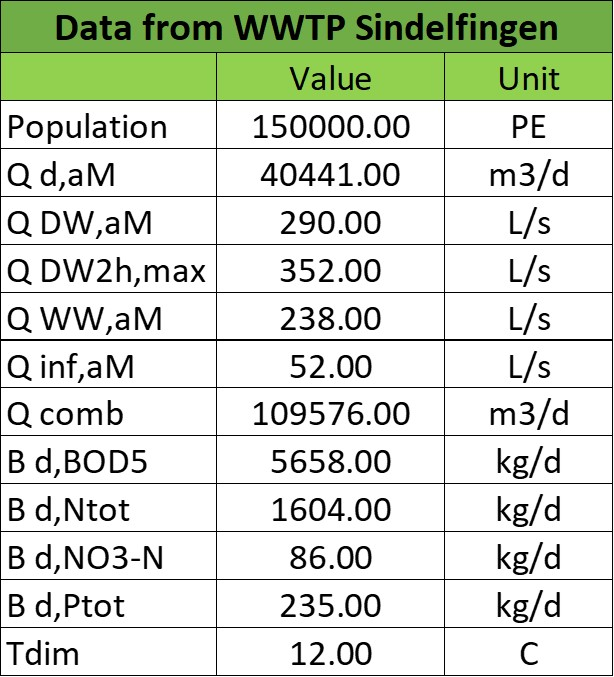
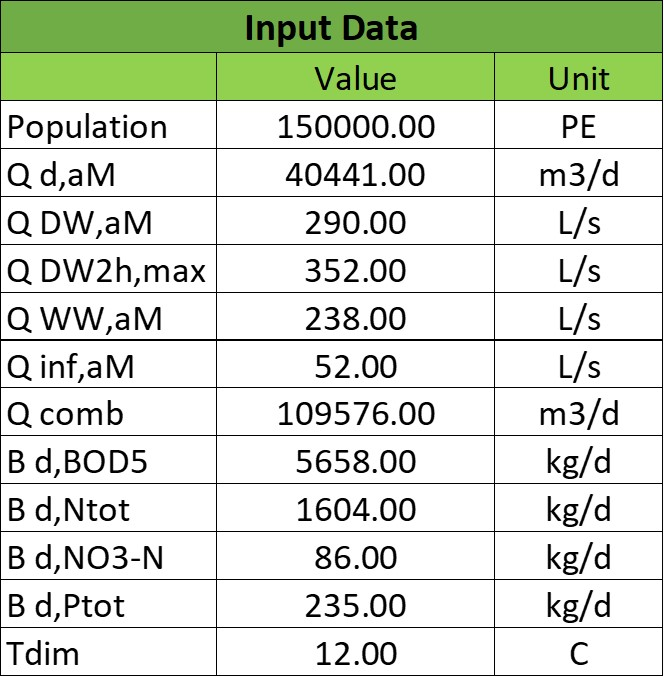
changes

diff --git a/docs/source/contents/code_description.rst b/docs/source/contents/code_description.rst
@@ -124,7 +124,7 @@ the most common units utilized for these types of calculation.
 
 .. raw:: html
 
-    <p style="text-align:center;">Fig 3. Input data needed for dimensioning. (source: Sindelfingen Wastewater Treatment Plant 2006-2008).</p>
+    <p style="text-align:center;">Fig 3. Input data needed for dimensioning. (source: Authors, 2024).</p>
 
 
 Primary Sedimentation
@@ -287,7 +287,7 @@ Below is the step-by-step dimensioning according to ATV-DVWK-A 131E
 1. Convert data loads to concentrations using the following formula:
 
 C\ :sub:`XXX` or S\ :sub:`XXX` or X\ :sub:`XXX`
-= ( B\ :sub:`XXX` / Q\ :sub:`d,aM` ) * 1000
+= ( B\ :sub:`XXX` / Q\ :sub:`d,aM` ) · 1000
 
 where:
 
@@ -436,7 +436,7 @@ First, the Inhabitant-SS load is extracted from the table below,
 a retention time after primary sedimentation of 0.5 to 1 h is
 sufficient. Remember to transform it to concentration.
 
-.. list-table:: Inhabitant-specific loads [ *g / (I * d)* ]
+.. list-table:: Inhabitant-specific loads [ *g / (I · d)* ]
     :widths: 20 20 20 20
     :header-rows: 1
 
@@ -554,7 +554,7 @@ load to find the sludge production from carbon removal.
 where:
 
 * X\ :sub:`SS,IAT` is the concentration of suspended solids from the influent to the activated sludge tank [ mg / L ]
-* C\ :sub:`BOD,IAT` s the concentration of BOD<sub>5</sub> from the influent to the activated sludge tank  [ mg / L ]
+* C\ :sub:`BOD,IAT` s the concentration of BOD \:sub:`5` from the influent to the activated sludge tank  [ mg / L ]
 
 Next, the phosphorus balance is calculated by first extracting the
 C\ :sub:`P,EST` according to the size class in the following table:

diff --git a/README.md b/README.md
@@ -128,7 +128,7 @@ calculation.
 [<img src="images/input_data.jpg" width="35%"/>](images/input_data.jpg)
 <br>
 <em><small>Fig 3. Input data needed for dimensioning. (source:
-Sindelfingen Wastewater Treatment Plant 2006-2008).</small></em>
+Authors, 2024).</small></em>
 </div>
 
 ***
@@ -277,7 +277,7 @@ Below is the step-by-step dimensioning according to ATV-DVWK-A 131E
 1. Convert data loads to concentrations using the following formula:
 
 *C<sub>XXX</sub> or S<sub>XXX</sub> or X<sub>XXX</sub> 
-= ( B<sub>XXX</sub> / Q<sub>d,aM</sub> ) * 1000* 
+= ( B<sub>XXX</sub> / Q<sub>d,aM</sub> ) · 1000* 
 
 where:
 * *C<sub>XXX</sub>* is the concentration of the parameter XXX in the
